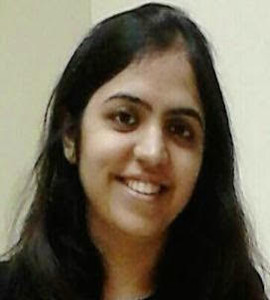
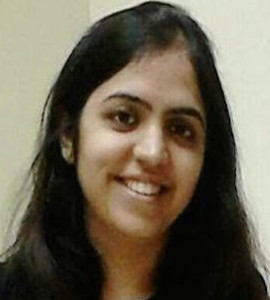
Updated speaker photos and added partners

diff --git a/index.html b/index.html
@@ -8,10 +8,14 @@
     <title>ACSS 2019</title>
 
     <!-- favicon -->
-    <link href="favicon.png" rel=icon>
+    <!-- <link href="favicon.png" rel=icon> -->
+
 
     <!-- web-fonts -->
     <link href='https://fonts.googleapis.com/css?family=Roboto:100,300,400,700,500' rel='stylesheet' type='text/css'>
+
+    <link href='https://stackpath.bootstrapcdn.com/font-awesome/4.7.0/css/font-awesome.min.css' rel='stylesheet' type='text/css'>
+
 
     <!-- Bootstrap -->
     <link href="css/bootstrap.min.css" rel="stylesheet">
@@ -58,8 +62,8 @@
                         <li><a class="page-scroll" href="#section-speaker">Speakers</a></li>
                         <li><a class="page-scroll" href="#section-ajenda">Agenda</a></li>
                         <li><a class="page-scroll" href="#section-pricing">Register</a></li>
+                        <li><a class="page-scroll" href="#section-contact">Contact Us</a></li>
                         <li><a class="page-scroll" href="#section-partner">Partners</a></li>
-                        <li><a class="page-scroll" href="#section-venue">Contact Us</a></li>
                     </ul>
                 </div>
                 <!-- /.navbar-collapse -->
@@ -90,11 +94,12 @@
                         The AI for Computational Social Science seminar is a one-day gathering of some of the most influential people in the field of Computationsl Social Science, which covers areas like Data Mining, Complex Networks, Social Computing, Natural Language Processing and Data-driven Cybersecurity
                     </p>
                     <p class="lead">
-                        It is being organized by the Laboratory for Computational Social Science (LCS2) at IIIT Delhi, a research group led by Dr. Tanmoy Chakraborty.
+                        It is being organized by the <a href="http://lcs2.iiitd.edu.in/">Laboratory for Computational Social Science (LCS2)</a> at <a href="http://iiitd.ac.in/">IIIT Delhi</a>, a research group led by <a href="https://sites.google.com/site/tanmoychakra88/">Dr. Tanmoy Chakraborty</a>.
                     </p>
                 </div>
                 <div class="col-md-4">
                     <address>
+                        <i class="fa fa-map-marker" aria-hidden="true"></i>
                         <strong>IIIT Delhi</strong><br>
                         Okhla Industrial Estate, Phase III<br>
                         Near Govind Puri Metro Station<br>
@@ -112,12 +117,12 @@
             <div class="row">
                 <div class="col-md-12">
                     <div class="section-title">
-                        <h1>SPEAKERS</h1>
+                        <h1>KEYNOTE</h1>
                     </div>
                 </div>
             </div>
             <div class="row">
-                <div class="col-sm-6 col-md-3">
+                <div class="col-md-4 col-md-offset-4">
                     <figure class="thumbnail">
                         <a href="#"><img src="img/speaker/rahul_panicker.jpg" class="img-responsive" alt="Image"></a>
                         <figcaption class="caption text-center">
@@ -133,8 +138,15 @@
                         </figcaption>
                     </figure>
                 </div>
-                <!-- /.col-sm-6 -->
-
+            </div>
+            <div class="row">
+                <div class="col-md-12">
+                    <div class="section-title">
+                        <h1>SPEAKERS</h1>
+                    </div>
+                </div>
+            </div>
+            <div class="row">
                 <div class="col-sm-6 col-md-3">
                     <figure class="thumbnail">
                         <a href="#"><img src="img/speaker/vasudeva_verma.jpg" class="img-responsive" alt="Image"></a>
@@ -152,7 +164,22 @@
                     </figure>
                 </div>
                 <!-- /.col-sm-6 -->
-
+                <div class="col-sm-6 col-md-3">
+                    <figure class="thumbnail">
+                        <a href="#"><img src="img/speaker/pk.jpg" class="img-responsive" alt="Image"></a>
+                        <figcaption class="caption text-center">
+                            <h3>Ponnurangam Kumaraguru
+                                <small>Associate Professor, IIIT Hyderabad</small>
+                            </h3>
+                            <ul class="social-links">
+                                <li><a href="#"><i class="fa fa-facebook"></i></a></li>
+                                <li><a href="#"><i class="fa fa-twitter"></i></a></li>
+                                <li><a href="#"><i class="fa fa-linkedin"></i></a></li>
+                                <li><a href="#"><i class="fa fa-envelope"></i></a></li>
+                            </ul>
+                        </figcaption>
+                    </figure>
+                </div>
                 <div class="col-sm-6 col-md-3">
                     <figure class="thumbnail">
                         <a href="#"><img src="img/speaker/sandeep_shukla.jpg" class="img-responsive" alt="Image"></a>
@@ -193,7 +220,7 @@
             </div>
             <!-- .row -->
             <div class="row">
-                <div class="col-sm-6 col-md-3">
+                <div class="col-sm-6 col-md-3 col-md-offset-3">
                     <figure class="thumbnail">
                         <a href="#"><img src="img/speaker/diksha_makhija.jpg" class="img-responsive" alt="Image"></a>
                         <figcaption class="caption text-center">
@@ -209,9 +236,27 @@
                         </figcaption>
                     </figure>
                 </div>
-                <!-- /.col-sm-6 -->
 
+                <div class="row">
                 <div class="col-sm-6 col-md-3">
+                    <figure class="thumbnail">
+                        <a href="#"><img src="img/speaker/sameep_mehta.jpg" class="img-responsive" alt="Image"></a>
+                        <figcaption class="caption text-center">
+                            <h3>Sameep Mehta
+                                <small>Researcher, IBM Research</small>
+                            </h3>
+                            <ul class="social-links">
+                                <li><a href="#"><i class="fa fa-facebook"></i></a></li>
+                                <li><a href="#"><i class="fa fa-twitter"></i></a></li>
+                                <li><a href="#"><i class="fa fa-linkedin"></i></a></li>
+                                <li><a href="#"><i class="fa fa-envelope"></i></a></li>
+                            </ul>
+                        </figcaption>
+                    </figure>
+                </div>
+            </div>
+
+                <!-- <div class="col-sm-6 col-md-3">
                     <figure class="thumbnail">
                         <a href="#"><img src="img/speaker/lipika_dey.jpg" class="img-responsive" alt="Image"></a>
                         <figcaption class="caption text-center">
@@ -227,7 +272,6 @@
                         </figcaption>
                     </figure>
                 </div>
-                <!-- /.col-sm-6 -->
 
                 <div class="col-sm-6 col-md-3">
                     <figure class="thumbnail">
@@ -245,7 +289,6 @@
                         </figcaption>
                     </figure>
                 </div>
-                <!-- /.col-sm-6 -->
 
                 <div class="col-sm-6 col-md-3">
                     <figure class="thumbnail">
@@ -263,12 +306,10 @@
                             </ul>
                         </figcaption>
                     </figure>
-                </div>
-                <!-- /.col-sm-6 -->
+                </div> -->
 
             </div>
             <!-- .row -->
-        </div>
         <!-- /.container -->
     </section>
     <!-- .team -->
@@ -435,7 +476,8 @@
     <!-- .pricing-section -->
 
 
-    <section id="section-partner" class="section-wrapper client-logo">
+    
+    <section id="section-contact" class="section-wrapper client-logo">
         <div class="container">
             <div class="row">
                 <div class="col-md-12">
@@ -444,26 +486,6 @@
                     </div>
                 </div>
             </div>
-            <!-- <div class="row">
-                <div class="col-md-2 col-sm-4 col-xs-6 section-margin">
-                    <a href="#"><img src="img/logo-client-1.jpg" alt="Image"></a>
-                </div>
-                <div class="col-md-2 col-sm-4 col-xs-6 section-margin">
-                    <a href="#"><img src="img/logo-client-2.jpg" alt="Image"></a>
-                </div>
-                <div class="col-md-2 col-sm-4 col-xs-6 section-margin">
-                    <a href="#"><img src="img/logo-client-3.jpg" alt="Image"></a>
-                </div>
-                <div class="col-md-2 col-sm-4 col-xs-6 section-margin">
-                    <a href="#"><img src="img/logo-client-4.jpg" alt="Image"></a>
-                </div>
-                <div class="col-md-2 col-sm-4 col-xs-6 section-margin">
-                    <a href="#"><img src="img/logo-client-5.jpg" alt="Image"></a>
-                </div>
-                <div class="col-md-2 col-sm-4 col-xs-6 section-margin">
-                    <a href="#"><img src="img/logo-client-6.jpg" alt="Image"></a>
-                </div>
-            </div> -->
 
             <div class="row">
               <div class="col-md-7">
@@ -500,13 +522,34 @@
         <!--end of .container -->
          
     </section>
+    <section id="section-partner" class="section-wrapper client-logo  gray-bg">
+        <div class="container">
+            <div class="row">
+                <div class="col-md-12">
+                    <div class="section-title">
+                        <h1>PARTNERS</h1>
+                    </div>
+                </div>
+            </div>
+            <div class="row">
+                <!-- <div class="col-md-2 col-md-offset-5"> -->
+                <div class="col-md-2 col-sm-4 col-xs-6 section-margin col-md-offset-3">
+                    <a href="#"><img src="img/partners/AIJ.jpg" alt="Image"></a>
+                </div>
+                <!-- <div class="col-md-2 col-md-offset-5"> -->
+                <div class="col-md-2 col-sm-4 col-xs-6 section-margin">
+                    <a href="#"><img src="img/partners/dst.png" alt="Image"></a>
+                </div>
+            </div>
+        </div>
+    </section>
     <!-- .client-logo -->
 
     <footer class="footer">
         <div class="copyright-section">
             <div class="container">
                 <div class="col-md-12">
-                    <div class="copytext text-center">&copy; Conference. All rights reserved | Design By: <a href="https://uicookies.com">uiCookies</a></div>
+                    <div class="copytext text-center">&copy; Conference. All rights reserved | Template By: <a href="https://uicookies.com">uiCookies</a></div>
                 </div>
             </div>
             <!-- .container -->
